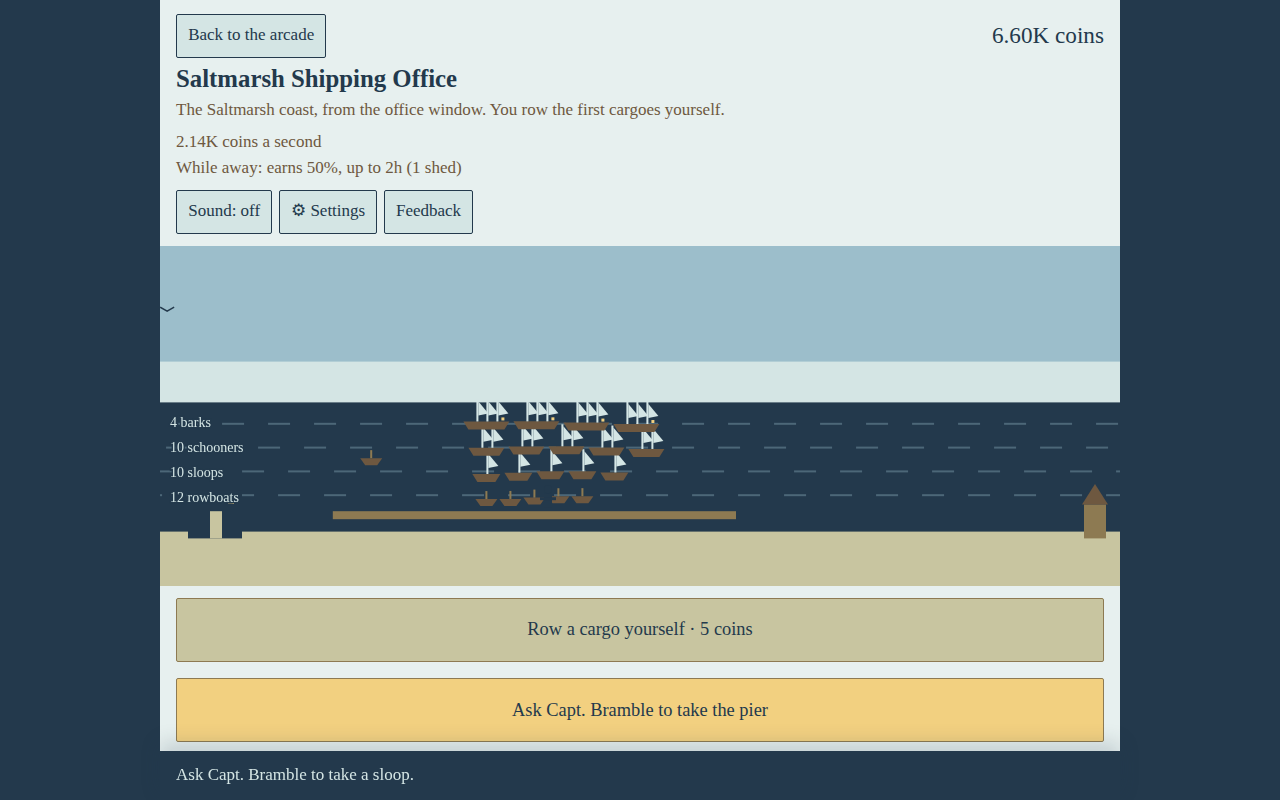
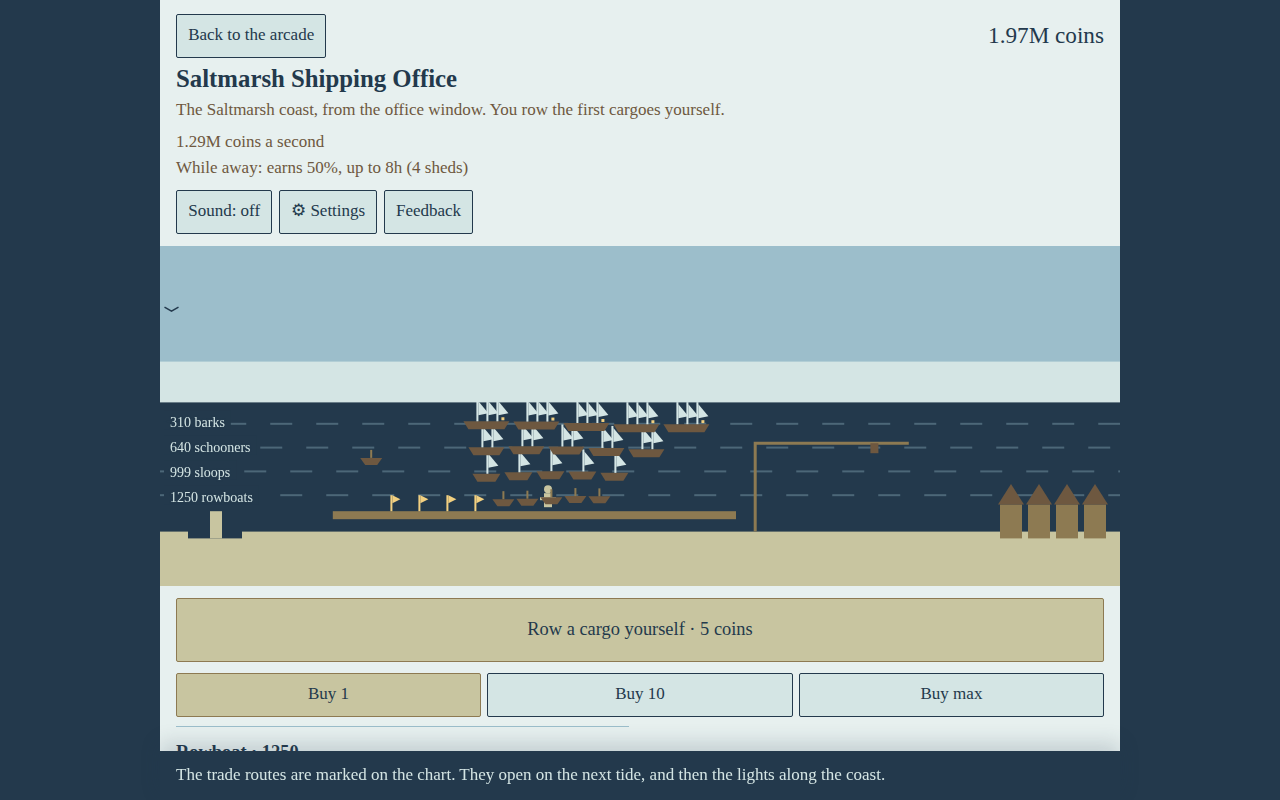
Keep the fleet labels clear of the other harbour shapes.
A water plate sits behind each count, and the captain is drawn in sand before the boats. Rowboats start past the pier flags so a flag does not cut a hull at 375 or 390.

diff --git a/games/saltmarsh-shipping/harbour.js b/games/saltmarsh-shipping/harbour.js
@@ -152,16 +152,30 @@
         var label = n + ' ' + word;
         ctx.font = '14px Georgia, Palatino, serif';
         ctx.textAlign = 'left';
+        ctx.fillStyle = WATER;
+        ctx.fillRect(4, y - 12, ctx.measureText(label).width + 12, 19);
         ctx.lineWidth = 3;
         ctx.strokeStyle = WATER;
         ctx.strokeText(label, 10, y + 4);
         ctx.fillStyle = MIST;
         ctx.fillText(label, 10, y + 4);
         var start = Math.max(w * 0.34, 10 + ctx.measureText(label).width + 12);
+        /* Pier flags stand on the left of the dock. The last triangle ends ten pixels past its pole, and the hull is centred, so the first rowboat starts a hull-half and a gap past that. */
+        if (kind === 'rowboat' && best >= 25) start = Math.max(start, w * 0.24 + 3 * 28 + 10 + 11 + 8);
         var room = Math.max(spread, w - 16 - start);
         var step = show > 1 ? Math.min(spread, room / (show - 1)) : spread;
         for (var i = 0; i < show; i++) drawBoat(ctx, kind, start + i * step, y + bob(i + index));
       }
+      if (state.captains && state.captains[0] && state.captains[0].hired) {
+        var px = w * 0.40, py = h * 0.78 - 18;
+        ctx.fillStyle = SAND;
+        ctx.fillRect(px, py, 8, 14);
+        ctx.fillRect(px - 4, py + 4, 16, 3);
+        ctx.beginPath();
+        ctx.arc(px + 4, py - 4, 4, 0, Math.PI * 2);
+        ctx.fill();
+      }
+
       var lanes = [
         ['rowboat', 0, 24],
         ['sloop', 1, 32],
@@ -174,16 +188,6 @@
       lanes.forEach(function (lane, index) {
         fleet(lane[0], lane[1], waterBottom - index * laneGap, lane[2]);
       });
-
-      if (state.captains && state.captains[0] && state.captains[0].hired) {
-        var px = w * 0.40, py = h * 0.78 - 18;
-        ctx.fillStyle = WATER;
-        ctx.fillRect(px, py, 8, 14);
-        ctx.fillRect(px - 4, py + 4, 16, 3);
-        ctx.beginPath();
-        ctx.arc(px + 4, py - 4, 4, 0, Math.PI * 2);
-        ctx.fill();
-      }
 
       if (!reduce) {
         var gx = ((now / 40) % (w + 40)) - 20;
